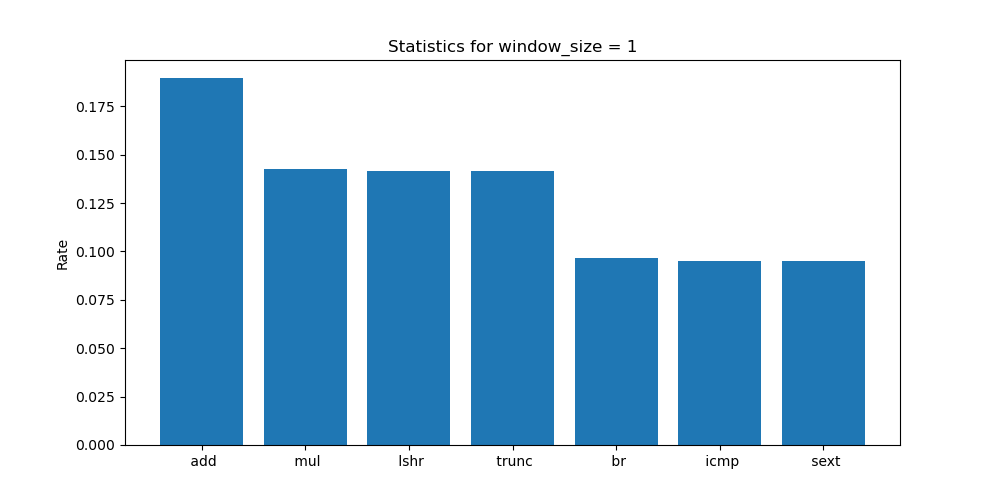
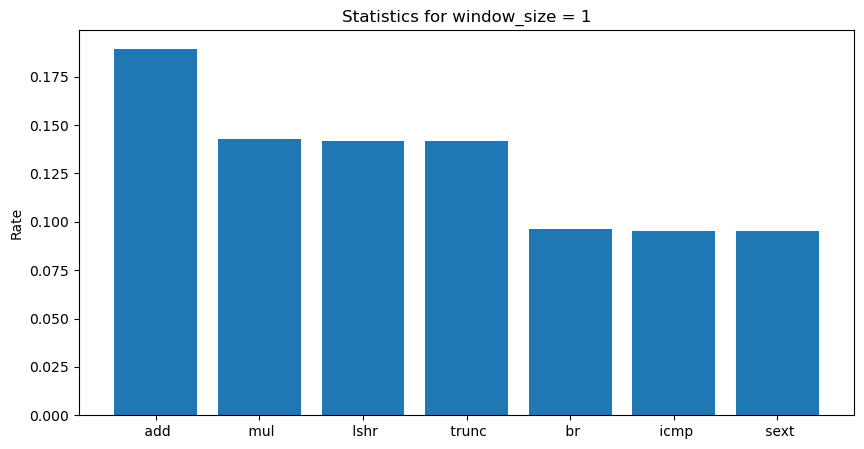
[stat_trace] Fix stats display
- Stat sequences were cutoff - fixed with additional option

Changed region(s): [[0.0, 0.0312, 0.9688, 0.9666]]

diff --git a/stat_trace/stat_trace.py b/stat_trace/stat_trace.py
@@ -42,7 +42,7 @@ def plot_stat(window_size: int, stat: dict[str, float]):
 
     plt.ylabel("Rate")
     plt.title("Statistics for window_size = %d" % window_size)
-    plt.savefig("stat_%d.png" % window_size)
+    plt.savefig("stat_%d.png" % window_size, bbox_inches="tight")
 
 def main():
     IN_NAME = sys.argv[1]
